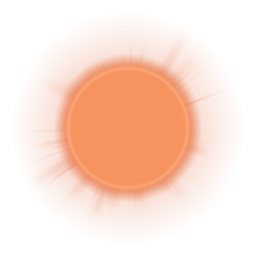
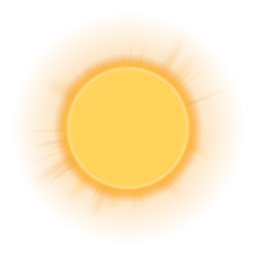
Light pages: the eclipse without a tile, in the sun's gold
The rounded tile still read as an app icon pasted on a light page. On
light pages the mark is now the eclipse alone, drawn a little larger as
its glow spills past the box, and its corona is the sun's gold rather
than terracotta. Dark pages keep the night tile. The logo image is gone:
the sidebar and the pairing screen draw the same mark from its layers.

Changed region(s): [[0.1875, 0.1875, 0.8125, 0.8125]]

diff --git a/src/ui/kit/controls.rs b/src/ui/kit/controls.rs
@@ -455,32 +455,55 @@ pub(crate) fn eclipse(size: f32) -> View {
         .child(layer(crate::LOADER_MOON))
 }
 
-/// The mark, still and sharp at any size (the icon's layers, 256 px), in
-/// the appearance's version.
-pub(crate) fn mark(size: f32) -> View {
-    let layer = move |asset: ImageAsset| image(asset).absolute().top(px(0.0)).left(px(0.0)).w(px(size)).h(px(size));
-    view()
-        .w(px(size))
-        .h(px(size))
-        .flex_shrink_0()
-        .rounded(px(size * 0.24))
-        .overflow_hidden()
-        .child(dynamic(move || {
-            let (sky, corona) = if dark() {
-                (crate::LOADER_SKY, crate::LOADER_CORONA)
-            } else {
-                (crate::LOADER_SKY_LIGHT, crate::LOADER_CORONA_LIGHT)
-            };
-            Some(untracked(move || view().w(px(size)).h(px(size)).child(layer(sky)).child(layer(corona)).into_element()))
-        }))
-        .child(layer(crate::LOADER_MOON))
+/// How far the mark's tile stands off the page.
+#[derive(Clone, Copy, PartialEq)]
+pub(crate) enum Lift {
+    Flat,
+    Small,
+    Large,
 }
 
-/// The app icon, small, in the appearance's version (the sidebar's mark).
-pub(crate) fn logo(size: f32) -> View {
+/// The mark, still and sharp at any size (the icon's layers, 256 px): on
+/// dark pages the icon's tile, its night sky rounded and lifted; on light
+/// pages the eclipse alone, no tile, its terracotta corona straight on
+/// the page.
+pub(crate) fn mark(size: f32, lift: Lift) -> View {
+    let layer = move |asset: ImageAsset| image(asset).absolute().top(px(0.0)).left(px(0.0)).w(px(size)).h(px(size));
     view().w(px(size)).h(px(size)).flex_shrink_0().child(dynamic(move || {
-        let asset = if dark() { crate::LOGO } else { crate::LOGO_LIGHT };
-        Some(untracked(move || image(asset).w(px(size)).h(px(size)).into_element()))
+        let night = dark();
+        Some(untracked(move || {
+            if !night {
+                // No tile to fill: the eclipse is drawn larger, its glow
+                // spilling past the mark's box, so the moon reads at the
+                // tile's weight.
+                let big = size * 1.35;
+                let off = (size - big) / 2.0;
+                let wide = move |asset: ImageAsset| image(asset).absolute().top(px(off)).left(px(off)).w(px(big)).h(px(big));
+                return view()
+                    .w(px(size))
+                    .h(px(size))
+                    .child(wide(crate::LOADER_CORONA_LIGHT))
+                    .child(wide(crate::LOADER_MOON))
+                    .into_element();
+            }
+            let tile = view()
+                .w(px(size))
+                .h(px(size))
+                .rounded(px(size * 0.24))
+                .overflow_hidden()
+                .child(layer(crate::LOADER_SKY))
+                .child(layer(crate::LOADER_CORONA))
+                .child(layer(crate::LOADER_MOON));
+            // The shadow sits on a frame of its own: the tile clips.
+            let frame = view().w(px(size)).h(px(size)).rounded(px(size * 0.24));
+            match lift {
+                Lift::Flat => frame,
+                Lift::Small => frame.shadow_sm(),
+                Lift::Large => frame.shadow_lg(),
+            }
+            .child(tile)
+            .into_element()
+        }))
     }))
 }
 

diff --git a/assets/app-icon/gen_icon.py b/assets/app-icon/gen_icon.py
@@ -1,7 +1,7 @@
 import math, random, sys
 random.seed(11)
 # `gen_icon.py out.svg [layer] [light]`: light is the daytime eclipse for
-# light pages (a warm dawn sky, the corona in terracotta, drawn plainly
+# light pages (a warm dawn sky, the corona in the sun's gold, drawn plainly
 # rather than screened, so it shows on cream); dark is the night sky.
 LIGHT = len(sys.argv) > 3 and sys.argv[3] == "light"
 R=236; C=512
@@ -28,7 +28,7 @@ for (x,y,r) in [(150,180,4),(860,150,3.6),(120,760,3.4),(905,820,4.2),(690,95,3)
     stars+=f'<circle cx="{x}" cy="{y}" r="{r*4}" fill="url(#twk)"/><circle cx="{x}" cy="{y}" r="{r}" fill="#fff"/>'
 if LIGHT:
     stars=''
-fade_colors=[(420,"#e88a5e"),(470,"#d96a40"),(390,"#f3a47c")] if LIGHT else [(420,"#ffd6bd"),(470,"#ffb48a"),(390,"#fff1e6")]
+fade_colors=[(420,"#f6a823"),(470,"#ee8a12"),(390,"#ffc94a")] if LIGHT else [(420,"#ffd6bd"),(470,"#ffb48a"),(390,"#fff1e6")]
 fades=''.join(f'<radialGradient id="fade{k}" gradientUnits="userSpaceOnUse" cx="512" cy="512" r="{r}"><stop offset="{R/r:.3f}" stop-color="{c}"/><stop offset="1" stop-color="{c}" stop-opacity="0"/></radialGradient>' for k,(r,c) in enumerate(fade_colors))
 svg=f'''<svg xmlns="http://www.w3.org/2000/svg" width="1024" height="1024" viewBox="0 0 1024 1024"><defs>
 <radialGradient id="bg" cx=".5" cy=".46" r=".78"><stop offset="0" stop-color="#1e1a30"/><stop offset=".5" stop-color="#0f0d1c"/><stop offset="1" stop-color="#040309"/></radialGradient>
@@ -71,12 +71,12 @@ if LIGHT:
         ('stop-color="#3a2a5c" stop-opacity="0"', 'stop-color="#f2b89a" stop-opacity="0"'),
         # The glow and streamers in terracotta, laid on rather than screened.
         ('<stop offset=".48" stop-color="#ff9f70" stop-opacity=".55"/><stop offset=".62" stop-color="#e2754a" stop-opacity=".22"/><stop offset="1" stop-color="#b8462a" stop-opacity="0"/>',
-         '<stop offset=".48" stop-color="#ec8152" stop-opacity=".5"/><stop offset=".64" stop-color="#e2754a" stop-opacity=".2"/><stop offset="1" stop-color="#e2754a" stop-opacity="0"/>'),
+         '<stop offset=".48" stop-color="#ffb52e" stop-opacity=".6"/><stop offset=".64" stop-color="#f59a16" stop-opacity=".24"/><stop offset="1" stop-color="#f59a16" stop-opacity="0"/>'),
         ('style="mix-blend-mode:screen"', ''),
         ('<stop offset=".76" stop-color="#fff3ea" stop-opacity="1"/><stop offset=".82" stop-color="#ffd0b2" stop-opacity=".75"/><stop offset=".92" stop-color="#ff9a68" stop-opacity=".2"/>',
-         '<stop offset=".76" stop-color="#f6935f" stop-opacity="1"/><stop offset=".82" stop-color="#ef8452" stop-opacity=".8"/><stop offset=".92" stop-color="#e2754a" stop-opacity=".25"/>'),
+         '<stop offset=".76" stop-color="#ffd25c" stop-opacity="1"/><stop offset=".82" stop-color="#ffb52e" stop-opacity=".85"/><stop offset=".92" stop-color="#f59a16" stop-opacity=".3"/>'),
         # The ring round the moon: bright amber, not white on cream.
-        ('stroke="#fff6ef" stroke-width="10"', 'stroke="#ffb07e" stroke-width="10"'),
+        ('stroke="#fff6ef" stroke-width="10"', 'stroke="#ffe7a3" stroke-width="10"'),
     ]:
         svg = svg.replace(old, new)
 open(sys.argv[1],'w').write(svg)

diff --git a/src/lib.rs b/src/lib.rs
@@ -28,14 +28,12 @@ unsafe extern "Rust" fn __getrandom_v03_custom(dest: *mut u8, len: usize) -> Res
 #[native_module("sophon/native")]
 fn native(registry: &mut Registry) {
     registry.register::<App>();
-    // Only the logo ships: `assets!()` would ship the whole directory,
-    // the app icon's sources included.
+    // Only the mark's layers ship: `assets!()` would ship the whole
+    // directory, the app icon's sources included.
     registry.assets(&[
-        AssetFile { uri: LOGO.url, source: concat!(env!("CARGO_MANIFEST_DIR"), "/assets/logo@2x.png"), kind: AssetKind::Image },
         AssetFile { uri: LOADER_SKY.url, source: concat!(env!("CARGO_MANIFEST_DIR"), "/assets/loader/sky@2x.png"), kind: AssetKind::Image },
         AssetFile { uri: LOADER_CORONA.url, source: concat!(env!("CARGO_MANIFEST_DIR"), "/assets/loader/corona@2x.png"), kind: AssetKind::Image },
         AssetFile { uri: LOADER_MOON.url, source: concat!(env!("CARGO_MANIFEST_DIR"), "/assets/loader/moon@2x.png"), kind: AssetKind::Image },
-        AssetFile { uri: LOGO_LIGHT.url, source: concat!(env!("CARGO_MANIFEST_DIR"), "/assets/logo-light@2x.png"), kind: AssetKind::Image },
         AssetFile { uri: LOADER_SKY_LIGHT.url, source: concat!(env!("CARGO_MANIFEST_DIR"), "/assets/loader/sky-light@2x.png"), kind: AssetKind::Image },
         AssetFile { uri: LOADER_CORONA_LIGHT.url, source: concat!(env!("CARGO_MANIFEST_DIR"), "/assets/loader/corona-light@2x.png"), kind: AssetKind::Image },
     ]);
@@ -48,9 +46,6 @@ fn components(components: &nsh_platform_ios::Components) {
     platform::ios_scanner::register(components);
 }
 
-/// The app icon, small: the sidebar's mark.
-pub(crate) const LOGO: ImageAsset = asset!("logo@2x.png");
-
 /// The icon in layers, for the loading mark: its sky, its corona (which
 /// turns) and its moon (`assets/app-icon/gen_icon.py … sky|corona|moon`).
 pub(crate) const LOADER_SKY: ImageAsset = asset!("loader/sky@2x.png");
@@ -58,8 +53,7 @@ pub(crate) const LOADER_CORONA: ImageAsset = asset!("loader/corona@2x.png");
 pub(crate) const LOADER_MOON: ImageAsset = asset!("loader/moon@2x.png");
 
 /// The same for light pages: the daytime eclipse, a dawn sky and a
-/// terracotta corona (`gen_icon.py … light`); the moon is shared.
-pub(crate) const LOGO_LIGHT: ImageAsset = asset!("logo-light@2x.png");
+/// golden corona (`gen_icon.py … light`); the moon is shared.
 pub(crate) const LOADER_SKY_LIGHT: ImageAsset = asset!("loader/sky-light@2x.png");
 pub(crate) const LOADER_CORONA_LIGHT: ImageAsset = asset!("loader/corona-light@2x.png");
 

diff --git a/src/ui/mobile/connect.rs b/src/ui/mobile/connect.rs
@@ -42,7 +42,7 @@ fn welcome(open_scan: impl Fn() + Clone + 'static) -> impl IntoElement {
                     .w_full()
                     .items_center()
                     .justify_center()
-                    .child(logo(96.0).rounded(px(22.0)).overflow_hidden().shadow_lg())
+                    .child(mark(96.0, Lift::Large))
                     .child(
                         view()
                             .items_center()

diff --git a/src/ui/mobile/chat.rs b/src/ui/mobile/chat.rs
@@ -216,7 +216,7 @@ fn draft() -> impl IntoElement {
     let error = computed(|| store::form().error);
     view()
         .flex_1()
-        .child(view().flex_1().items_center().justify_center().child(mark(48.0)))
+        .child(view().flex_1().items_center().justify_center().child(mark(48.0, Lift::Flat)))
         .child(
             view()
                 .px(px(S2))

diff --git a/src/ui/shared/agent.rs b/src/ui/shared/agent.rs
@@ -134,7 +134,7 @@ pub(crate) fn draft_pane() -> AnyElement {
                     .items_center()
                     .justify_center()
                     .gap(px(S3))
-                    .child(mark(48.0))
+                    .child(mark(48.0, Lift::Flat))
                     .child(
                         text(line)
                             .px(px(S8))

diff --git a/src/ui/desktop/home.rs b/src/ui/desktop/home.rs
@@ -15,7 +15,7 @@ pub(crate) fn home() -> impl IntoElement {
         view()
             .items_center()
             .gap(px(S6))
-            .child(mark(72.0).shadow_lg())
+            .child(mark(72.0, Lift::Large))
             .child(btn(t("New workspace"), Variant::Primary, Sz::Md, Some(Icon::SquarePen), || store::open_new_workspace(None)))
     }))
 }

diff --git a/src/ui/desktop/sidebar.rs b/src/ui/desktop/sidebar.rs
@@ -81,7 +81,7 @@ fn host_body() -> View {
         .py(px(S2))
         .mb(px(S1))
         .child(
-            logo(26.0).rounded(px(7.0)).overflow_hidden().shadow_sm(),
+            mark(26.0, Lift::Small),
         )
         .rounded(px(R_LG))
         .hover(|s| s.bg(highlight()))
